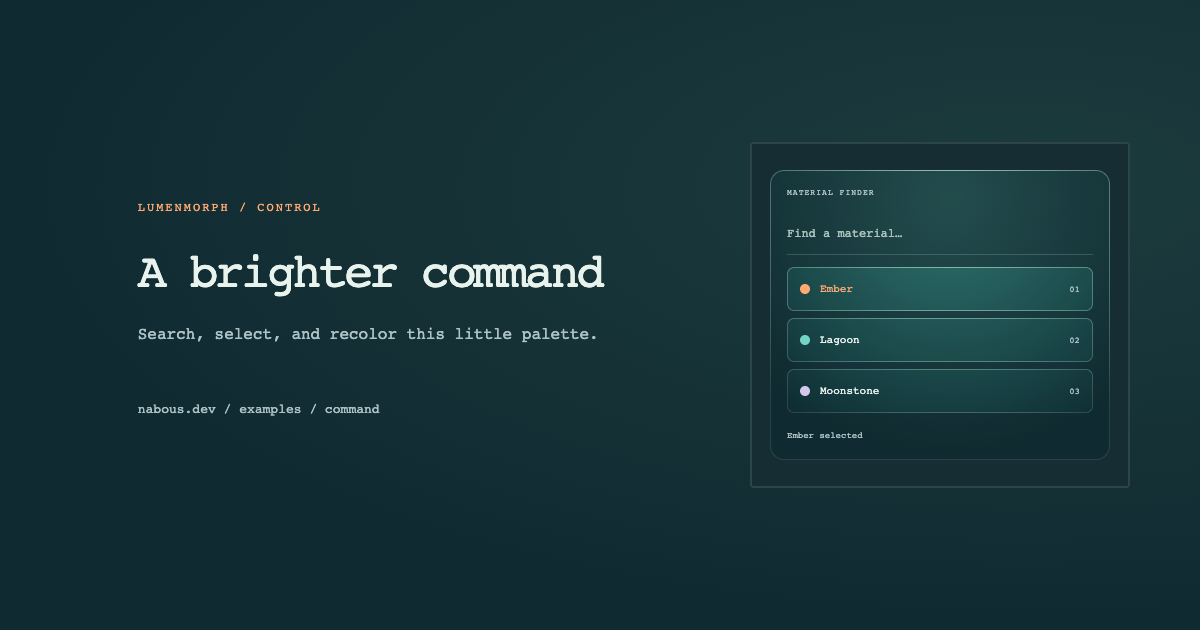
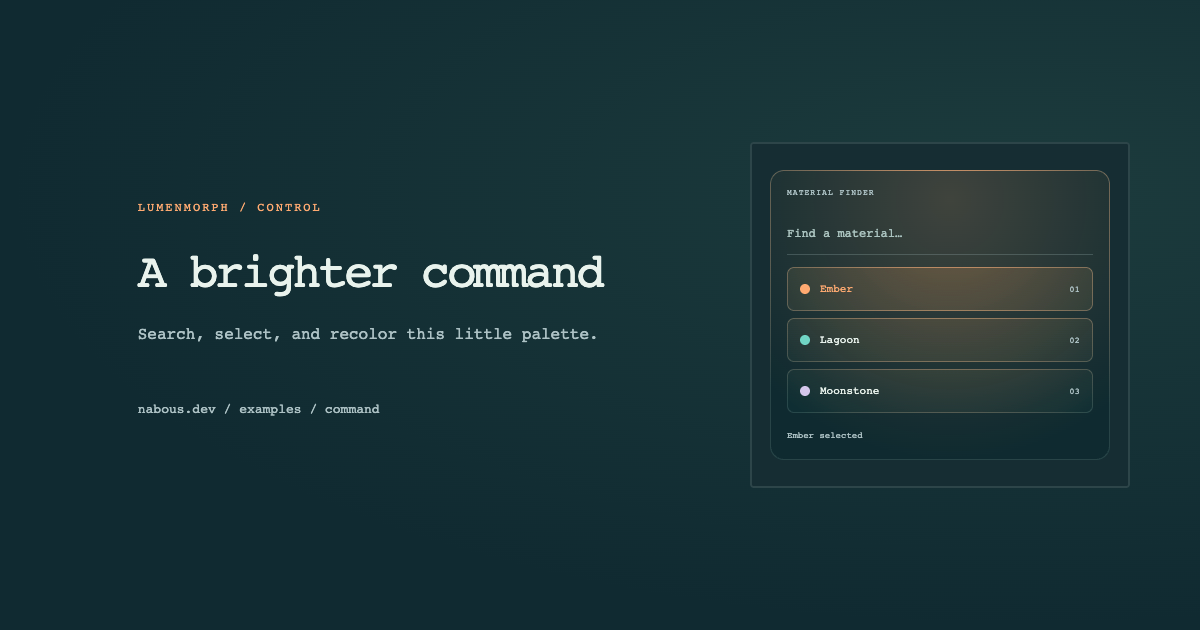
fix(lab): match Material Finder light to the selected material

Changed region(s): [[0.6475, 0.4222, 0.925, 0.6032], [0.74, 0.2714, 0.8325, 0.3921]]

diff --git a/public/lab/examples/command/index.html b/public/lab/examples/command/index.html
@@ -1,8 +1,8 @@
 <!doctype html>
 <html lang="en"><head><meta charset="utf-8"><meta name="viewport" content="width=device-width, initial-scale=1">
 <title>A brighter command · Lumenmorph</title><meta name="description" content="Search, select, and recolor this little palette. Edit this Lumenmorph example live.">
-<meta name="lab:title" content="A brighter command · Lumenmorph"><meta name="lab:image" content="./og.png?v=7cfb9f2fefd8faa3"><meta name="lab:image:width" content="1200"><meta name="lab:image:height" content="630">
-<meta property="og:title" content="A brighter command · Lumenmorph"><meta property="og:description" content="Search, select, and recolor this little palette."><meta property="og:type" content="website"><meta property="og:url" content="https://nabous.dev/lab/lumenmorph/examples/command/"><meta property="og:image" content="https://nabous.dev/lab/lumenmorph/examples/command/og.png?v=7cfb9f2fefd8faa3"><meta property="og:image:width" content="1200"><meta property="og:image:height" content="630"><meta name="twitter:card" content="summary_large_image">
+<meta name="lab:title" content="A brighter command · Lumenmorph"><meta name="lab:image" content="./og.png?v=2a0a79e11bb3b6c2"><meta name="lab:image:width" content="1200"><meta name="lab:image:height" content="630">
+<meta property="og:title" content="A brighter command · Lumenmorph"><meta property="og:description" content="Search, select, and recolor this little palette."><meta property="og:type" content="website"><meta property="og:url" content="https://nabous.dev/lab/lumenmorph/examples/command/"><meta property="og:image" content="https://nabous.dev/lab/lumenmorph/examples/command/og.png?v=2a0a79e11bb3b6c2"><meta property="og:image:width" content="1200"><meta property="og:image:height" content="630"><meta name="twitter:card" content="summary_large_image">
 <link rel="canonical" href="https://nabous.dev/lab/lumenmorph/examples/command/"><link rel="stylesheet" href="../../assets/lumenmorph.css"><link rel="stylesheet" href="../../editor.css"><link rel="stylesheet" href="../../assets/fontawesome/css/all.min.css">
 </head><body><main class="example-studio" data-example="command">
 <a class="studio-back" href="../"><i class="fa-solid fa-arrow-left" aria-hidden="true"></i> All 24 examples</a>
@@ -17,7 +17,7 @@
 <p class="share-note">Shares the published example.</p><p id="share-status" role="status"></p><input id="share-url" aria-label="Example link" readonly hidden>
 </div></div></div>
 <div class="studio-workspace">
-<section class="preview-card studio-card" aria-labelledby="preview-heading"><div class="panel-heading"><h2 id="preview-heading">Live preview</h2><span id="preview-state" role="status">Loading</span></div><div class="preview-stage"><img id="preview-poster" src="./og.png?v=7cfb9f2fefd8faa3" alt="A brighter command preview" width="1200" height="630"><iframe id="example-preview" title="A brighter command live preview" sandbox="allow-scripts" referrerpolicy="no-referrer" hidden></iframe></div><div class="preview-caption">Try the controls. Change the code. See what happens.</div></section>
+<section class="preview-card studio-card" aria-labelledby="preview-heading"><div class="panel-heading"><h2 id="preview-heading">Live preview</h2><span id="preview-state" role="status">Loading</span></div><div class="preview-stage"><img id="preview-poster" src="./og.png?v=2a0a79e11bb3b6c2" alt="A brighter command preview" width="1200" height="630"><iframe id="example-preview" title="A brighter command live preview" sandbox="allow-scripts" referrerpolicy="no-referrer" hidden></iframe></div><div class="preview-caption">Try the controls. Change the code. See what happens.</div></section>
 <section class="editor-card studio-card" aria-label="Live code editor"><div class="editor-toolbar"><div class="code-tabs" role="tablist" aria-label="Code language"><button type="button" role="tab" id="tab-html" aria-controls="panel-html" aria-selected="true" data-language="html"><i class="fa-brands fa-html5" aria-hidden="true"></i>HTML</button><button type="button" role="tab" id="tab-css" aria-controls="panel-css" aria-selected="false" tabindex="-1" data-language="css"><i class="fa-brands fa-css3-alt" aria-hidden="true"></i>CSS</button><button type="button" role="tab" id="tab-js" aria-controls="panel-js" aria-selected="false" tabindex="-1" data-language="js"><i class="fa-brands fa-js" aria-hidden="true"></i>JS</button></div><button type="button" class="studio-button" id="format-code" aria-label="Format code" title="Format code (Shift+Alt+F)" disabled><i class="fa-solid fa-wand-magic-sparkles" aria-hidden="true"></i></button><label class="auto-run"><input type="checkbox" id="auto-run" checked>Auto-run</label></div>
 <div role="tabpanel" id="panel-html" aria-labelledby="tab-html"><label class="visually-hidden" for="code-html">HTML code</label><textarea id="code-html" spellcheck="false" autocapitalize="off" autocomplete="off" wrap="off" disabled></textarea></div>
 <div role="tabpanel" id="panel-css" aria-labelledby="tab-css" hidden><label class="visually-hidden" for="code-css">CSS code</label><textarea id="code-css" spellcheck="false" autocapitalize="off" autocomplete="off" wrap="off" disabled></textarea></div>

diff --git a/public/lab/showcase.css b/public/lab/showcase.css
@@ -155,13 +155,14 @@
 .lm-lab .notification-status { margin-top: 10px; text-align: center; }
 
 /* 11 — command palette */
-.lm-lab .demo-command { padding: 26px 18px; background: #162d33; }
+.lm-lab .demo-command { padding: 26px 18px; background: #162d33; --lumen-glow-color: var(--sg-ember); --lumen-border-glow-color: var(--lumen-glow-color); }
 .lm-lab .command-panel { padding: 16px; --lumen-bg: #12272cb0; }
 .lm-lab .command-panel label { display: block; margin: 0; }
 .lm-lab .command-panel input { width: 100%; min-height: 44px; margin: 12px 0; border: 0; border-bottom: 1px solid #a1b9b844; border-radius: 0; background: transparent; color: var(--sg-ink); font: inherit; font-size: 12px; padding: 10px 0; }
 .lm-lab .command-panel input::placeholder { color: #abc4c0; opacity: 1; }
 .lm-lab .command-results { display: grid; gap: 7px; min-height: 145px; align-content: start; }
 .lm-lab .command-results button { display: flex; gap: 10px; align-items: center; text-align: left; --lumen-radius: 7px; --lumen-bg: #e6f4e405; }
+.lm-lab .command-results button[aria-pressed=true] { color: var(--lumen-glow-color); }
 .lm-lab .command-results button span { margin-left: auto; color: var(--sg-muted); font-size: 9px; }
 .lm-lab .material-swatch { width: 10px; height: 10px; border-radius: 50%; flex: none; }
 .lm-lab .swatch-ember { background: #ffaa71; }.lm-lab .swatch-lagoon { background: #70d5c5; }.lm-lab .swatch-moonstone { background: #d5c7ec; }

diff --git a/public/lab/examples/command/preview.html b/public/lab/examples/command/preview.html
@@ -586,6 +586,8 @@ input {
 .lm-lab .demo-command {
   padding: 26px 18px;
   background: #162d33;
+  --lumen-glow-color: var(--sg-ember);
+  --lumen-border-glow-color: var(--lumen-glow-color);
 }
 .lm-lab .command-panel {
   padding: 16px;
@@ -625,6 +627,9 @@ input {
   text-align: left;
   --lumen-radius: 7px;
   --lumen-bg: #e6f4e405;
+}
+.lm-lab .command-results button[aria-pressed="true"] {
+  color: var(--lumen-glow-color);
 }
 .lm-lab .command-results button span {
   margin-left: auto;
